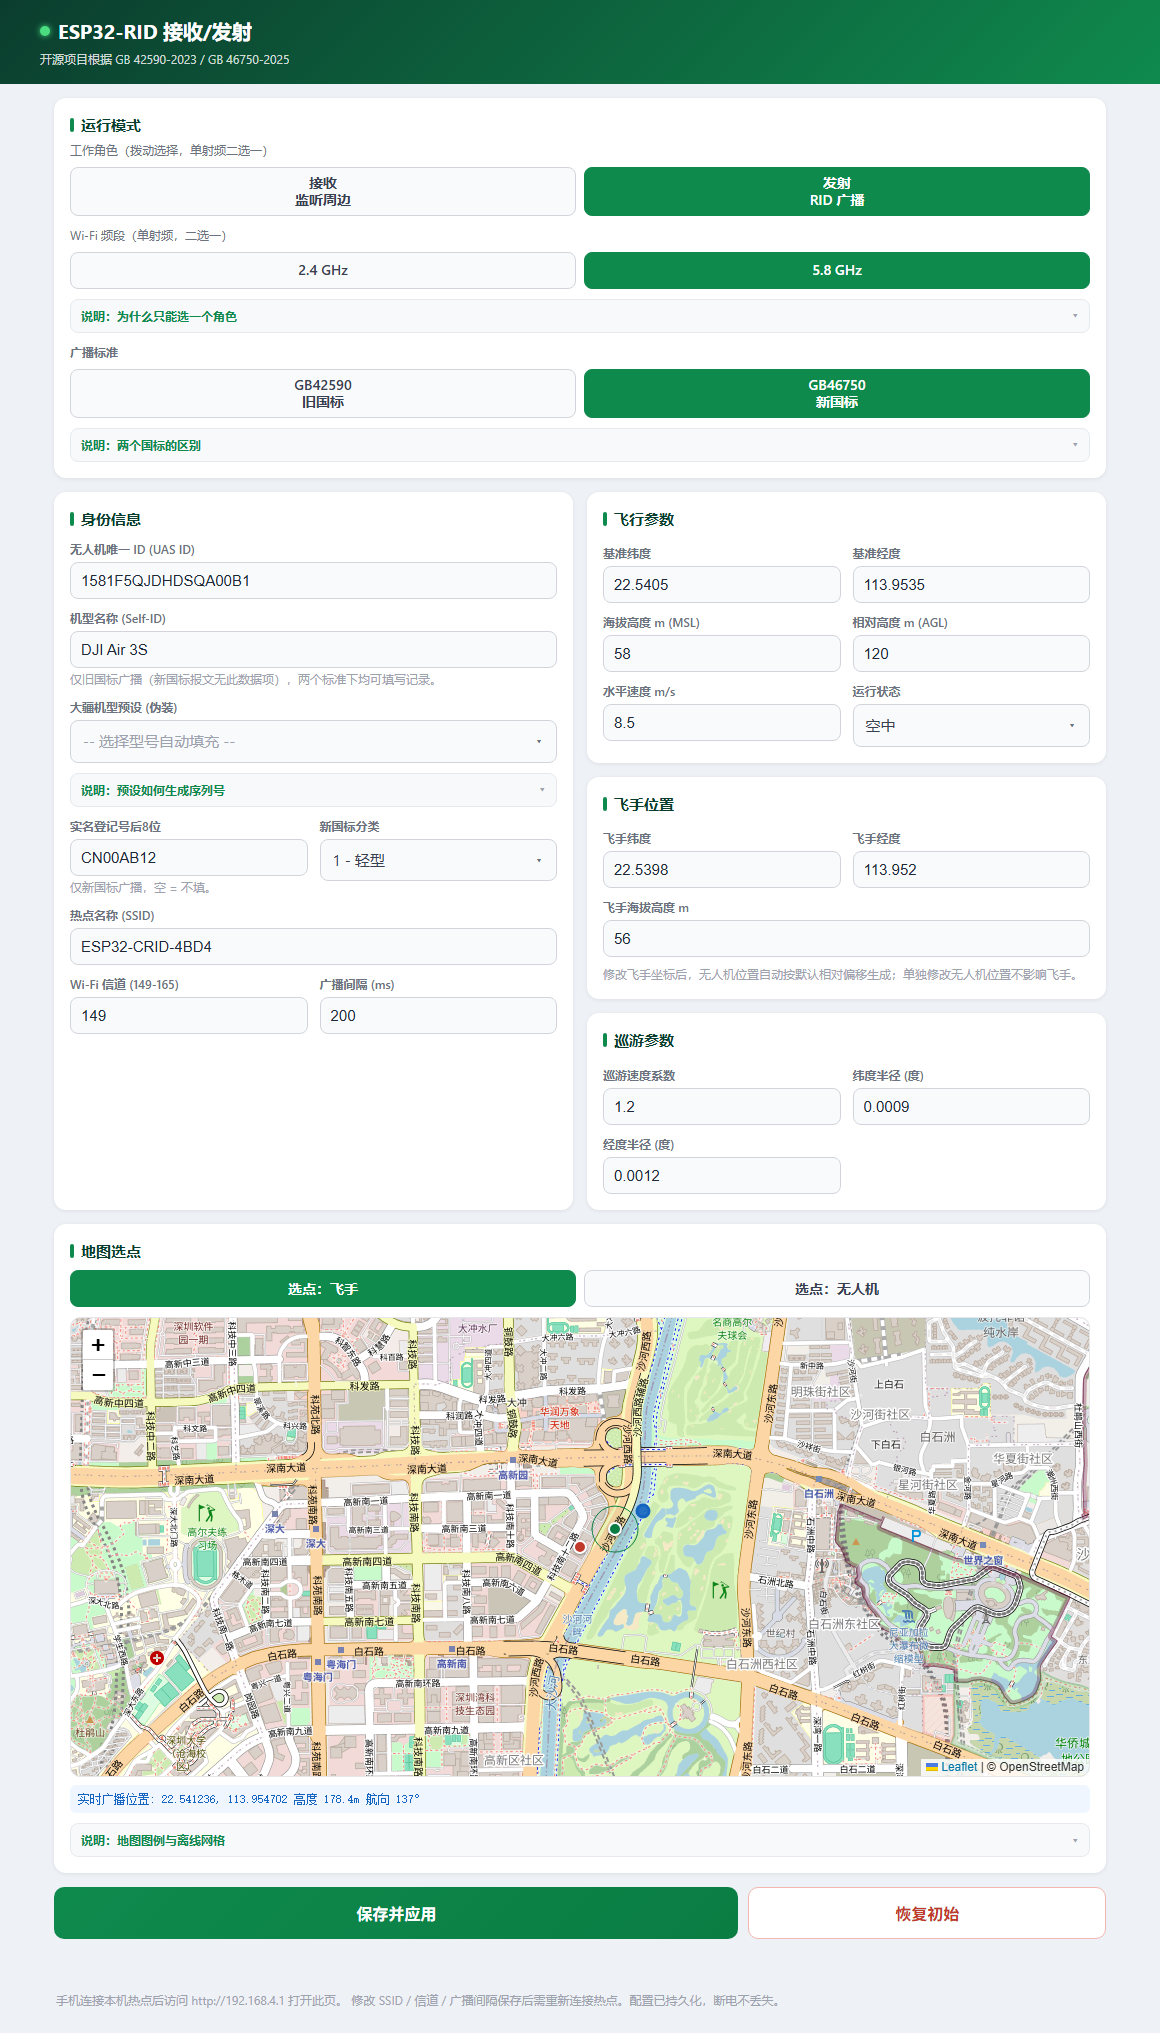
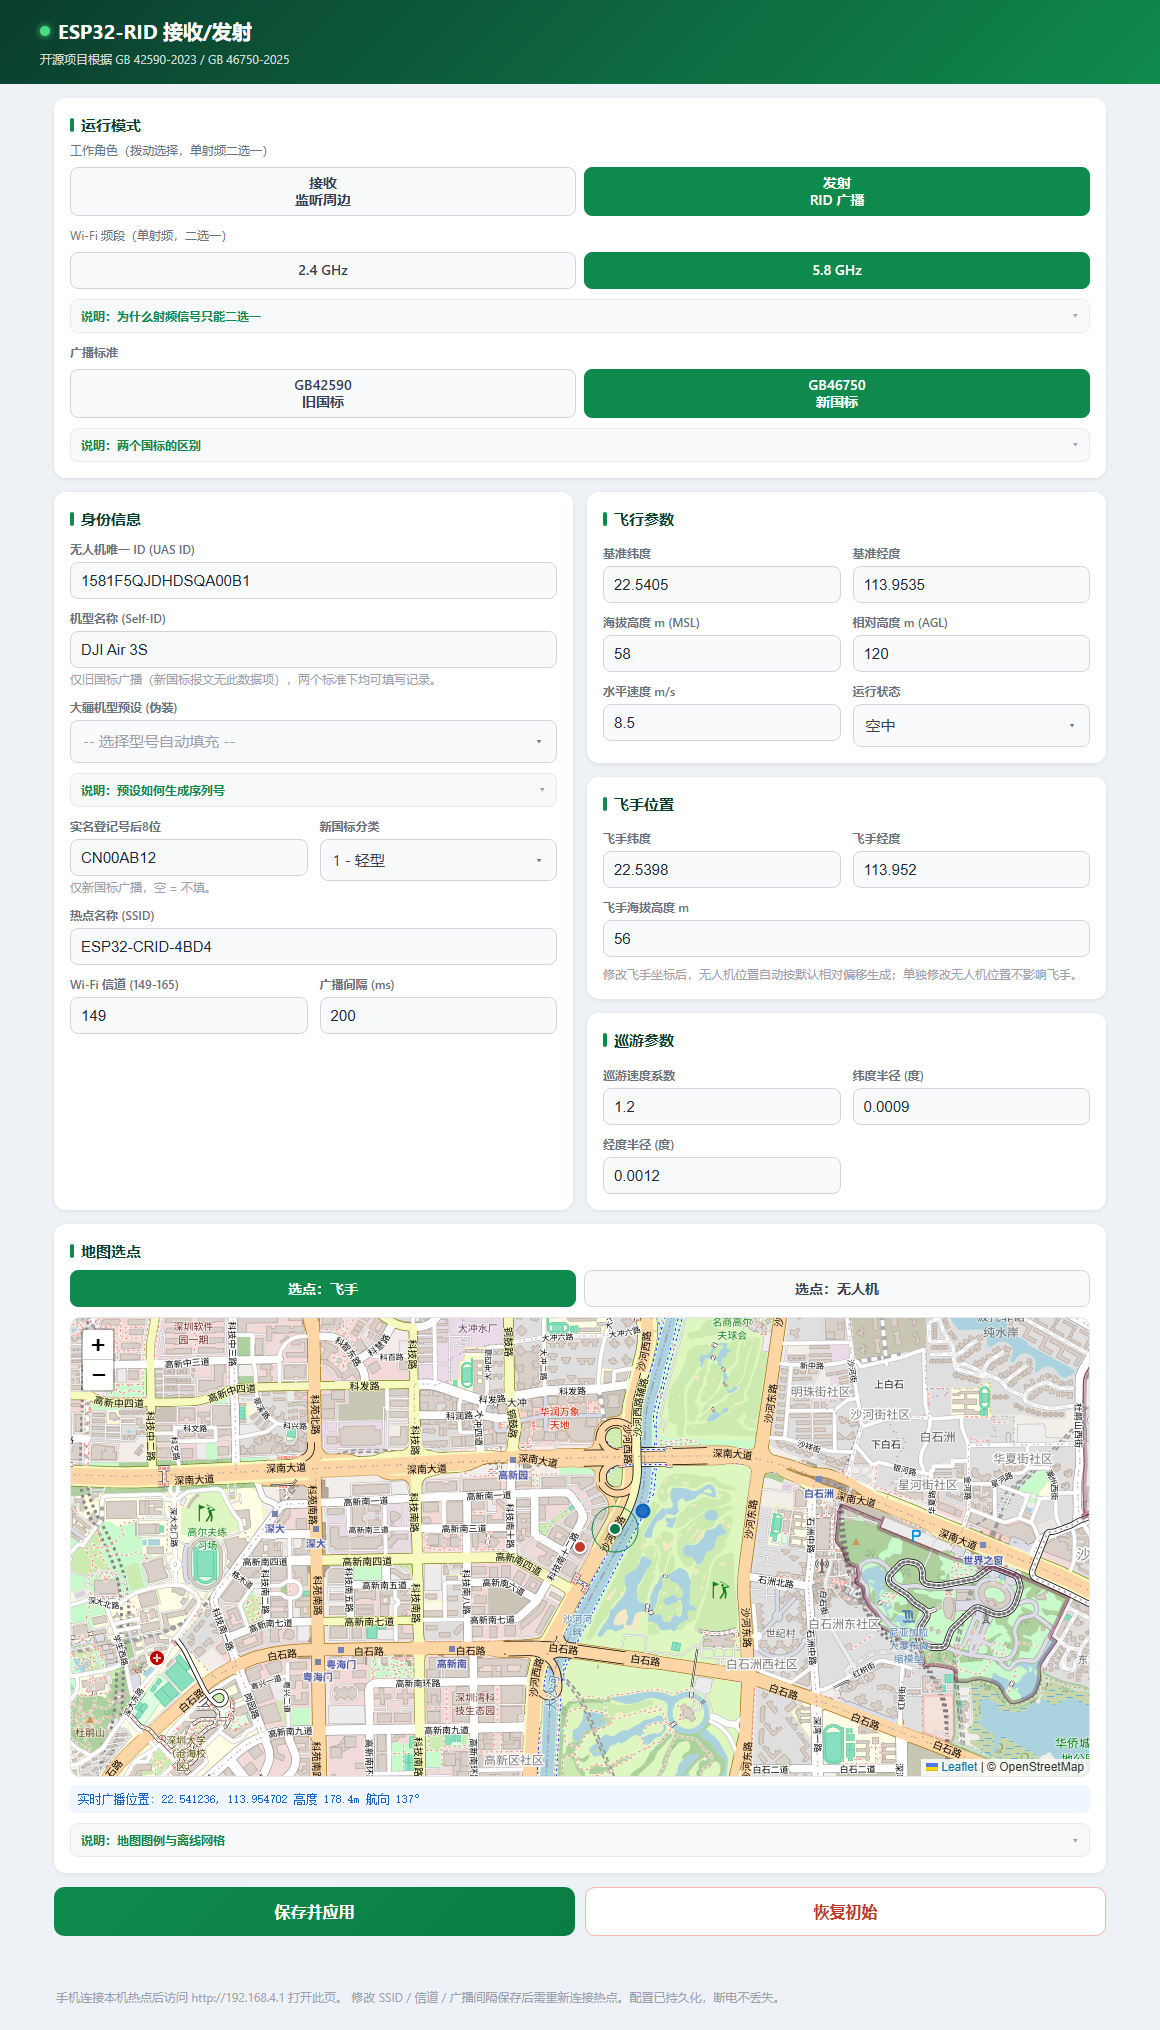
docs(web): 频段说明条的措辞纠正——「角色」改为「射频信号」
- 「说明：为什么只能选一个角色」→「说明：为什么射频信号只能二选一」
  （该说明条位于 Wi-Fi 频段二选一下方，描述对象是射频信号而非工作角色）
- 「热点始终开启，与角色开关无关」→「与射频信号怎么用无关」
- README 同步；docs/webui_rx.png、docs/webui_tx.png 按新文案重制

diff --git a/tools/_page.html b/tools/_page.html
@@ -226,11 +226,11 @@ button.danger:hover{background:#fdf1f0;filter:none}
 <label><input type='radio' name='band' value='0' checked><span>2.4 GHz</span></label>
 <label id='b5gl'><input type='radio' name='band' value='1'><span>5.8 GHz</span></label>
 </div>
-<details class='tip'><summary>说明：为什么只能选一个角色</summary><div>
+<details class='tip'><summary>说明：为什么射频信号只能二选一</summary><div>
 本机只有<b>一条射频链路</b>，同一时刻只能发或只能收。发射时射频忙于发出 Beacon（携带 RID 报文），
 这段时间到达的信号收不到；接收时射频一直在监听，就没有空口资源稳定广播。
 所以「又发又收」在单射频硬件上只能是分时轮转，会互相抢时间、掉帧，不如明确二选一。
-<br>热点本身<b>始终开启</b>，与角色开关无关，手机随时可以连进来改参数。
+<br>热点本身<b>始终开启</b>，与射频信号怎么用无关，手机随时可以连进来改参数。
 <br>2.4G 与 5.8G 也共用同一射频，只能启用一个频段；切换频段会重建热点，手机需重新连接。
 </div></details>
 <div id='stdbox'>

diff --git a/main/crid_web.c b/main/crid_web.c
@@ -281,11 +281,11 @@ static const char PAGE_HTML[] =
 "<label><input type='radio' name='band' value='0' checked><span>2.4 GHz</span></label>"
 "<label id='b5gl'><input type='radio' name='band' value='1'><span>5.8 GHz</span></label>"
 "</div>"
-"<details class='tip'><summary>说明：为什么只能选一个角色</summary><div>"
+"<details class='tip'><summary>说明：为什么射频信号只能二选一</summary><div>"
 "本机只有<b>一条射频链路</b>，同一时刻只能发或只能收。发射时射频忙于发出 Beacon（携带 RID 报文），"
 "这段时间到达的信号收不到；接收时射频一直在监听，就没有空口资源稳定广播。"
 "所以「又发又收」在单射频硬件上只能是分时轮转，会互相抢时间、掉帧，不如明确二选一。"
-"<br>热点本身<b>始终开启</b>，与角色开关无关，手机随时可以连进来改参数。"
+"<br>热点本身<b>始终开启</b>，与射频信号怎么用无关，手机随时可以连进来改参数。"
 "<br>2.4G 与 5.8G 也共用同一射频，只能启用一个频段；切换频段会重建热点，手机需重新连接。"
 "</div></details>"
 "<div id='stdbox'>"

diff --git a/README.md b/README.md
@@ -228,7 +228,7 @@ GB 42590-2023 附录 A.1.3.1.3 允许 **5725–5829 MHz**，对应 Wi-Fi 信道 
   **「接收 · 监听周边 / 发射 · RID 广播」二选一拨动开关**，永远只有一边点亮
 - 后端兜底 `crid_config_radio_mutex()`：旧配置双开时保留发射清掉接收，双关时给活跃频段补一个接收
 - 两频段开关各自记忆（`tx_2g/rx_2g/tx_5g/rx_5g`），切换频段立即沿用该频段上次的选择
-- 热点始终常开，与角色开关无关，随时可连进来改参数
+- 热点始终常开，与射频信号怎么用无关，随时可连进来改参数
 
 **页面**
 
